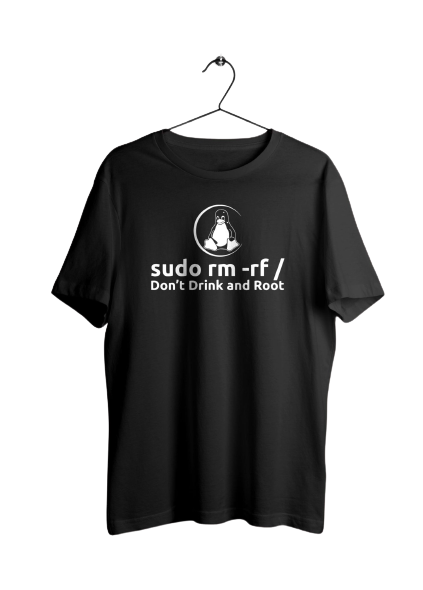
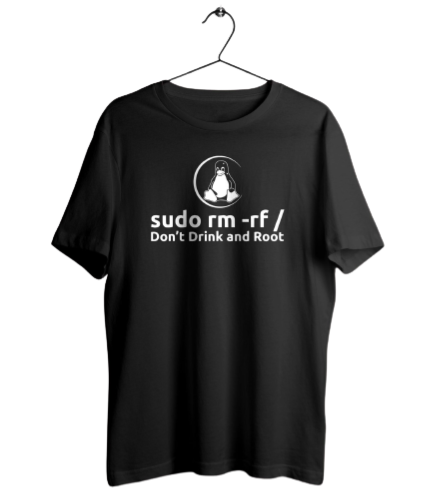
Added e-commerce card

Changed region(s): [[0.0922, 0.0, 0.922, 0.998], [0.5532, 0.2722, 0.5839, 0.3024]]

diff --git a/documentation/docs.html b/documentation/docs.html
@@ -331,7 +331,7 @@
                                         <i class="far fa-heart border__rad-full center__flex margin-8px"></i>
                                     </div>
                                     <div class="card__upper-image center__flex">
-                                        <img src="../assets/cards/tshirt-1.png" class="images" alt="product image">
+                                        <img src="../assets/cards/tshirt-1.png" class="image__res" alt="product image">
                                     </div>
                                 </div>
                                 <div class="card__sec-lower center__flex flex__dir-col">
@@ -340,7 +340,7 @@
                                         <p class="price__sec-current margin__tb-4px">₹ 500</p>
                                     </div>
                                     <div class="lower__sec-btn center__flex">
-                                        <button class="btns btn__secondary">Add to cart</button>
+                                        <button class="btns btn__primary">Add to cart</button>
                                     </div>
                                 </div>
                             </div>
@@ -351,7 +351,7 @@
                                         <i class="far fas fa-heart border__rad-full center__flex margin-8px"></i>
                                     </div>
                                     <div class="card__upper-image center__flex">
-                                        <img src="../assets/cards/tshirt-1.png" class="images" alt="product image">
+                                        <img src="../assets/cards/tshirt-1.png" class="image__res" alt="product image">
                                     </div>
                                 </div>
                                 <div class="card__sec-lower center__flex flex__dir-col">
@@ -360,7 +360,7 @@
                                         <p class="price__sec-current margin__tb-4px">₹ 500</p>
                                     </div>
                                     <div class="lower__sec-btn center__flex">
-                                        <button class="btns btn__primary">Go to cart</button>
+                                        <button class="btns btn__secondary">Go to cart</button>
                                     </div>
                                 </div>
                             </div>
@@ -399,7 +399,7 @@
                                     <div class="card__upper-image center__flex">
 
                                         <!-- Image here -->
-                                        <img src="../assets/cards/tshirt-1.png" class="images" alt="product image">
+                                        <img src="../assets/cards/tshirt-1.png" class="image__res" alt="product image">
                                     </div>
                                 </div>
                                 <div class="card__sec-lower center__flex flex__dir-col">
@@ -510,7 +510,7 @@
                                         <i class="far fa-heart border__rad-full center__flex margin-8px"></i>
                                     </div>
                                     <div class="card__upper-image center__flex">
-                                        <img src="../assets/cards/tshirt-1.png" class="images" alt="product image">
+                                        <img src="../assets/cards/tshirt-1.png" class="image__res" alt="product image">
                                     </div>
 
                                     <!-- new Arrivals overlay section here -->
@@ -532,13 +532,13 @@
                             </div>
 
                             <!-- Out of stock card here -->
-                            <div class="card card__textover margin-1rem">
+                            <div class="card card__textover card__vertical margin-1rem">
                                 <div class="card__sec-upper center__flex flex__dir-col">
                                     <div class="card__upper-icon center__flex">
                                         <i class="far fa-heart border__rad-full center__flex margin-8px"></i>
                                     </div>
                                     <div class="card__upper-image center__flex">
-                                        <img src="../assets/cards/tshirt-1.png" class="images" alt="product image">
+                                        <img src="../assets/cards/tshirt-1.png" class="image__res" alt="product image">
                                     </div>
 
                                     <!-- Out of stock overlay section here -->
@@ -583,7 +583,7 @@
                                 <!-- Card Upper section here -->
                                 <div class="card__sec-upper center__flex flex__dir-col">
                                     <div class="card__upper-image center__flex">
-                                        <img src="../assets/cards/tshirt-1.png" class="images" alt="product image">
+                                        <img src="../assets/cards/tshirt-1.png" class="image__res" alt="product image">
                                     </div>
                                 </div>
 
@@ -604,6 +604,57 @@
                             <iframe
                                 src="https://carbon.now.sh/embed?bg=rgba%28171%2C184%2C195%2C0%29&t=blackboard&wt=none&l=text%2Fx-c%2B%2Bsrc&width=718&ds=false&dsyoff=20px&dsblur=68px&wc=true&wa=true&pv=21px&ph=18px&ln=false&fl=1&fm=Hack&fs=13px&lh=124%25&si=false&es=2x&wm=false&code=%253C%21--%2520New%2520Arrivals%2520card%2520here%2520--%253E%250A%253Cdiv%2520class%253D%2522card%2520card__newarrival%2520grid%2520margin-1rem%2522%253E%250A%250A%2520%2520%2520%2520%253C%21--%2520Card%2520Upper%2520section%2520here%2520--%253E%250A%2520%2520%2520%2520%253Cdiv%2520class%253D%2522card__sec-upper%2520center__flex%2520flex__dir-col%2522%253E%250A%2520%2520%2520%2520%2520%2520%2520%2520%253Cdiv%2520class%253D%2522card__upper-image%2520center__flex%2522%253E%250A%2520%2520%2520%2520%2520%2520%2520%2520%2520%2520%2520%2520%253Cimg%2520src%253D%2522..%252Fassets%252Fcards%252Ftshirt-1.png%2522%2520class%253D%2522images%2522%2520alt%253D%2522product%2520image%2522%253E%250A%2520%2520%2520%2520%2520%2520%2520%2520%253C%252Fdiv%253E%250A%2520%2520%2520%2520%253C%252Fdiv%253E%250A%250A%2520%2520%2520%2520%253C%21--%2520Card%2520Lower%2520section%2520here%2520--%253E%250A%2520%2520%2520%2520%253Cdiv%2520class%253D%2522card__sec-lower%2520center__flex%2520flex__dir-col%2522%253E%250A%2520%2520%2520%2520%2520%2520%2520%2520%253Cdiv%2520class%253D%2522lower__sec-top%2520text-mid%2522%253E%250A%2520%2520%2520%2520%2520%2520%2520%2520%2520%2520%2520%2520New%2520Arrivals%250A%2520%2520%2520%2520%2520%2520%2520%2520%253C%252Fdiv%253E%250A%2520%2520%2520%2520%2520%2520%2520%2520%253Cdiv%2520class%253D%2522lower__sec-bottom%2522%253E%250A%2520%2520%2520%2520%2520%2520%2520%2520%2520%2520%2520%2520%253Ch3%2520class%253D%2522headline-3%2520margin__tb-8px%2522%253ESummer%2520collection%253C%252Fh3%253E%250A%2520%2520%2520%2520%2520%2520%2520%2520%2520%2520%2520%2520%253Cp%2520class%253D%2522margin__tb-8px%2522%253ELorem%2520ipsum%2520dolor%2520sit%2520amet%2520consectetur%2520adipisicing%2520elit.%2520Quisquam%252C%2520consequuntur%21%253C%252Fp%253E%2520%250A%2520%2520%2520%2520%2520%2520%2520%2520%253C%252Fdiv%253E%250A%2520%2520%2520%2520%253C%252Fdiv%253E%250A%253C%252Fdiv%253E%250A"
                                 style="width: 100%; height: 455px; border:0; transform: scale(1); overflow:hidden;"
+                                sandbox="allow-scripts allow-same-origin">
+                            </iframe>
+                        </div>
+                    </div>
+                    <div class="component__details">
+                        <h2 class="headline-2 text-sub-head">
+                            Examples of E-Commerce Product Card.
+                        </h2>
+                        <p class="text-mid">
+                            For a E-Commerce product card use <span class="text-primary"> card__e-commerce </span>
+                            class or copy the below code snippet.
+                        </p>
+                        <div class="component__example center__flex flex-wrap padding-1rem">
+
+                            <!-- E-Commerce product card here -->
+                            <div class="card card__e-commerce card__shadow grid margin-1rem">
+
+                                <!-- Card Upper section here -->
+                                <div class="card__sec-upper center__flex flex__dir-col">
+
+                                    <!-- Card image here -->
+                                    <div class="card__upper-image center__flex">
+                                        <img src="../assets/cards/tshirt-1.png" class="image__res" alt="product image">
+                                    </div>
+
+                                    <!--Card overlay section here  -->
+                                    <div class="card__upper-overlay">
+                                        <div class="upper__overlay-icon">
+                                            <p class="shopping__cart-icon center__flex"> + </p>
+                                        </div>
+                                        <div class="upper__overlay-btn">
+                                            <button class="btns btn__primary">Quick View</button>
+                                        </div>
+                                    </div>
+                                </div>
+
+                                <!-- Card Lower section here -->
+                                <div class="card__sec-lower center__flex flex__dir-col">
+                                    <div class="center__flex lower__sec-details  flex__dir-col">
+                                        <p class="details__sec-title">Don't Drink and Root</p>
+                                        <p class="details__sec-title">Unisex T-Shirt</p>
+                                        <p class="price__sec-prev">₹ 1000</p>
+                                        <p class="price__sec-current margin__tb-8px">₹ 500</p>
+                                    </div>
+                                </div>
+                            </div>
+                        </div>
+                        <div class="iframe__sec center__flex">
+                            <iframe
+                                src="https://carbon.now.sh/embed?bg=rgba%28171%2C184%2C195%2C0%29&t=blackboard&wt=none&l=text%2Fx-c%2B%2Bsrc&width=718&ds=false&dsyoff=20px&dsblur=68px&wc=true&wa=true&pv=21px&ph=18px&ln=false&fl=1&fm=Hack&fs=13px&lh=124%25&si=false&es=2x&wm=false&code=%253C%21--%2520E-Commerce%2520product%2520card%2520here%2520--%253E%250A%2520%2520%250A%2520%2520%253Cdiv%2520class%253D%2522card%2520card__e-commerce%2520card__shadow%2520grid%2520margin-1rem%2522%253E%250A%250A%2520%2520%2520%2520%2520%2520%253C%21--%2520Card%2520Upper%2520section%2520here%2520--%253E%250A%2520%2520%2520%2520%2520%2520%253Cdiv%2520class%253D%2522card__sec-upper%2520center__flex%2520flex__dir-col%2522%253E%250A%250A%2520%2520%2520%2520%2520%2520%2520%2520%2520%2520%253C%21--%2520Card%2520image%2520here%2520--%253E%250A%2520%2520%2520%2520%2520%2520%2520%2520%2520%2520%253Cdiv%2520class%253D%2522card__upper-image%2520center__flex%2522%253E%250A%2520%2520%2520%2520%2520%2520%2520%2520%2520%2520%2520%2520%2520%2520%253Cimg%2520src%253D%2522..%252Fassets%252Fcards%252Ftshirt-1.png%2522%2520class%253D%2522image__res%2522%2520alt%253D%2522product%2520image%2522%253E%250A%2520%2520%2520%2520%2520%2520%2520%2520%2520%2520%253C%252Fdiv%253E%250A%250A%2520%2520%2520%2520%2520%2520%2520%2520%2520%2520%253C%21--Card%2520overlay%2520section%2520here%2520%2520--%253E%250A%2520%2520%2520%2520%2520%2520%2520%2520%2520%2520%253Cdiv%2520class%253D%2522card__upper-overlay%2522%253E%250A%2520%2520%2520%2520%2520%2520%2520%2520%2520%2520%2520%2520%2520%2520%253Cdiv%2520class%253D%2522upper__overlay-icon%2522%253E%250A%2520%2520%2520%2520%2520%2520%2520%2520%2520%2520%2520%2520%2520%2520%2520%2520%2520%2520%253Cp%2520class%253D%2522shopping__cart-icon%2520center__flex%2522%253E%2520%252B%2520%253C%252Fp%253E%250A%2520%2520%2520%2520%2520%2520%2520%2520%2520%2520%2520%2520%2520%2520%253C%252Fdiv%253E%250A%2520%2520%2520%2520%2520%2520%2520%2520%2520%2520%2520%2520%2520%2520%253Cdiv%2520class%253D%2522upper__overlay-btn%2522%253E%250A%2520%2520%2520%2520%2520%2520%2520%2520%2520%2520%2520%2520%2520%2520%2520%2520%2520%2520%253Cbutton%2520class%253D%2522btns%2520btn__primary%2522%253EQuick%2520View%253C%252Fbutton%253E%250A%2520%2520%2520%2520%2520%2520%2520%2520%2520%2520%2520%2520%2520%2520%253C%252Fdiv%253E%250A%2520%2520%2520%2520%2520%2520%2520%2520%2520%2520%253C%252Fdiv%253E%250A%2520%2520%2520%2520%2520%2520%253C%252Fdiv%253E%250A%250A%2520%2520%2520%2520%2520%2520%253C%21--%2520Card%2520Lower%2520section%2520here%2520--%253E%250A%2520%2520%2520%2520%2520%2520%253Cdiv%2520class%253D%2522card__sec-lower%2520center__flex%2520flex__dir-col%2522%253E%250A%2520%2520%2520%2520%2520%2520%2520%2520%2520%2520%253Cdiv%2520class%253D%2522center__flex%2520lower__sec-details%2520%2520flex__dir-col%2522%253E%250A%2520%2520%2520%2520%2520%2520%2520%2520%2520%2520%2520%2520%2520%2520%253Cp%2520class%253D%2522details__sec-title%2522%253EDon%27t%2520Drink%2520and%2520Root%253C%252Fp%253E%250A%2520%2520%2520%2520%2520%2520%2520%2520%2520%2520%2520%2520%2520%2520%253Cp%2520class%253D%2522details__sec-title%2522%253EUnisex%2520T-Shirt%253C%252Fp%253E%250A%2520%2520%2520%2520%2520%2520%2520%2520%2520%2520%2520%2520%2520%2520%253Cp%2520class%253D%2522price__sec-prev%2522%253E%25E2%2582%25B9%25201000%253C%252Fp%253E%250A%2520%2520%2520%2520%2520%2520%2520%2520%2520%2520%2520%2520%2520%2520%253Cp%2520class%253D%2522price__sec-current%2520margin__tb-8px%2522%253E%25E2%2582%25B9%2520500%253C%252Fp%253E%250A%2520%2520%2520%2520%2520%2520%2520%2520%2520%2520%253C%252Fdiv%253E%250A%2520%2520%2520%2520%2520%2520%253C%252Fdiv%253E%250A%2520%2520%253C%252Fdiv%253E"
+                                style="width: 100%; height: 648px; border:0; transform: scale(1); overflow:hidden;"
                                 sandbox="allow-scripts allow-same-origin">
                             </iframe>
                         </div>

diff --git a/components/cards.css b/components/cards.css
@@ -1,22 +1,39 @@
-@import url('https://fonts.googleapis.com/css2?family=Poppins:wght@500&display=swap');
+@import url("https://fonts.googleapis.com/css2?family=Poppins:wght@500&display=swap");
+
+/*! For documentation purpose */
+#cards-sec .card {
+    border-radius: 4px;
+    max-width: 20rem;
+    max-height: 30.25rem;
+}
+
+#cards-sec .card.card__horizontal,
+#cards-sec .card.card__newarrival {
+    max-width: initial;
+}
+
+/*! Component styles here */
 
 .card {
-    font-family: 'Poppins',
-        sans-serif;
+    position: relative;
+    font-family: "Poppins", sans-serif;
+    width: 100%;
+    height: 100%;
     display: grid;
     background-color: var(--color-off-white);
-    transition: transform .3s cubic-bezier(0.075, 0.82, 0.165, 1);
+    transition: transform 0.3s ease-in-out;
+}
+
+.card.grid {
+    gap: 0;
 }
 
 /*! Vertical card style here  */
 
 .card__vertical {
     color: var(--color-pure-black);
-    max-width: 20rem;
-    max-height: 30.25rem;
     grid-template-rows: 3fr 1fr;
 }
-
 
 /** Card upper section */
 
@@ -26,12 +43,13 @@
 }
 
 .card__upper-icon i {
+    position: absolute;
     cursor: pointer;
     font-size: 1.2em;
     width: 2.5rem;
     height: 2.5rem;
     background-color: var(--color-pure-white);
-    padding: 1rem;
+    top: 0;
     flex-wrap: nowrap;
 }
 
@@ -39,9 +57,17 @@
     color: var(--color-pure-red);
 }
 
+.card__upper-image {
+    display: flex;
+    align-items: center;
+    justify-content: center;
+    width: 13rem;
+    transition: all 0.6s ease-in-out;
+}
+
 .card__upper-image img {
-    height: 17rem;
-    width: 16rem;
+    object-fit: contain;
+    margin: 1rem;
 }
 
 /* * Card lower section */
@@ -62,7 +88,6 @@
     font-weight: 700;
     color: var(--color-pure-black);
 }
-
 
 /* Previous price style */
 
@@ -91,22 +116,16 @@
     width: 100%;
 }
 
-
 /*! Badge card style here */
 
-.card__badge {
-    position: relative;
-}
-
 .card__badge-icon {
-    top: .5rem;
-    left: .5rem;
+    top: 0.5rem;
+    left: 0.5rem;
     padding: 4px;
     color: var(--color-pure-white);
     background-color: var(--color-pure-red);
     position: absolute;
 }
-
 
 /*! Card horizontal style here */
 
@@ -147,7 +166,6 @@
     box-shadow: -1px 0px 10px var(--text-sec);
 }
 
-
 /*! Text only card here  */
 
 .card__textonly {
@@ -162,15 +180,15 @@
 .dismiss__btn {
     cursor: pointer;
     font-size: 1.2rem;
-    right: .5rem;
-    top: .5rem;
+    right: 0.5rem;
+    top: 0.5rem;
     position: absolute;
-    transition: all .3s linear;
+    transition: all 0.3s linear;
 }
 
 .dismiss__btn:hover {
     transform: scale(1.1);
-    transition: all .3s linear;
+    transition: all 0.3s linear;
 }
 
 /*! Text overlay card here  */
@@ -185,7 +203,7 @@
     z-index: 1;
     left: 0;
     right: 0;
-    transition: all .3s ease;
+    transition: all 0.3s ease;
     transform-origin: left;
 }
 
@@ -203,6 +221,7 @@
 }
 
 .overlay__sec-text.oos p {
+    width: 100%;
     background-color: var(--color-trans-red);
 }
 
@@ -220,4 +239,74 @@
 
 .card__newarrival .card__sec-lower>* {
     margin-left: 3rem;
+}
+
+/*! E-comm producr card style here */
+
+.card__sec-upper {
+    position: relative;
+}
+
+/** Card overlay section style here  */
+.card__upper-overlay {
+    width: 100%;
+    position: absolute;
+    bottom: 0;
+    transform: translateY(100%);
+    transition: all 0.5s ease-in-out;
+    z-index: -10;
+}
+
+.card__e-commerce:hover .card__upper-image {
+    transform: scale(1.1);
+}
+
+.card__e-commerce:hover .card__upper-overlay {
+    z-index: 10;
+    transform: translateY(0%);
+}
+
+/** Cart icon style here  */
+.shopping__cart-icon {
+    --icon-width: 1.5rem;
+    --icon-height: 1.5rem;
+    cursor: pointer;
+    color: var(--color-pri);
+    outline: 2px solid var(--color-pri);
+    width: var(--icon-width);
+    height: var(--icon-height);
+    margin: 1rem 0.5rem;
+    position: relative;
+    transition: all 0.3s ease-in-out;
+}
+
+.shopping__cart-icon::before {
+    content: "";
+    outline: 2px solid var(--color-pri);
+    position: absolute;
+    overflow: hidden;
+    width: calc(var(--icon-width) - 0.6rem);
+    height: calc(var(--icon-height) - 1rem);
+    bottom: calc(var(--icon-width) - -2px);
+    border-radius: 50% 50% 0 0;
+    pointer-events: none;
+    transition: all 0.1s ease-in-out;
+}
+
+.shopping__cart-icon:hover {
+    color: var(--color-pure-white);
+    background-color: var(--color-pri);
+}
+
+.shopping__cart-icon:hover::before {
+    height: calc(var(--icon-height) - 0.9rem);
+}
+
+.card__upper-overlay .btns {
+    width: 100%;
+}
+
+.card__e-commerce .card__sec-lower {
+    z-index: 99;
+    padding: 1rem;
 }
